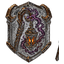
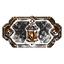
Replace rejected Sapper and Hexer tell prototype

diff --git a/apps/web/src/Battlefield.tsx b/apps/web/src/Battlefield.tsx
@@ -904,6 +904,12 @@ export function authoredEnemyIntentAssets(
   return undefined;
 }
 
+export function authoredEnemyIntentEffectLayout(
+  intent: EnemyIntentPresentation
+): "span" | "endpoint" {
+  return intent.phase === "committed" ? "endpoint" : "span";
+}
+
 export function statusSignalKind(
   statusId: string
 ):
@@ -1675,6 +1681,47 @@ function updateEntitySignal(
     1
   );
   signal.strokeRoundedRect(entity.x - width / 2 - 3, top - 3, width + 6, 10, 2);
+  if (presentation.elite || presentation.boss) {
+    const frameColor = presentation.boss ? 0xd2a866 : 0xb98b45;
+    signal.lineStyle(presentation.boss ? 2 : 1.5, frameColor, 0.95);
+    signal.strokeRoundedRect(
+      entity.x - width / 2 - 5,
+      top - 5,
+      width + 10,
+      14,
+      3
+    );
+    signal.fillStyle(0x3b2818, 1);
+    signal.fillTriangle(
+      entity.x - width / 2 - 8,
+      top - 3,
+      entity.x - width / 2 - 3,
+      top + 2,
+      entity.x - width / 2 - 8,
+      top + 7
+    );
+    signal.fillTriangle(
+      entity.x + width / 2 + 8,
+      top - 3,
+      entity.x + width / 2 + 3,
+      top + 2,
+      entity.x + width / 2 + 8,
+      top + 7
+    );
+    signal.lineStyle(1, 0xf0d394, 0.82);
+    signal.lineBetween(
+      entity.x - width / 2 - 7,
+      top + 2,
+      entity.x - width / 2 - 3,
+      top + 2
+    );
+    signal.lineBetween(
+      entity.x + width / 2 + 3,
+      top + 2,
+      entity.x + width / 2 + 7,
+      top + 2
+    );
+  }
   signal.fillStyle(
     presentation.healthRatio > 0.5
       ? 0x69b96b
@@ -2642,27 +2689,30 @@ class PersistentBattlefieldScene {
       const effect =
         this.behaviorEffects.get(sourceEntity.id) ??
         this.scene.add.image(midpointX, midpointY, assets.world);
-      effect.setTexture(assets.world).setOrigin(0.5).setAlpha(0.92);
-      if (intent.mechanic === "attack_disrupt") {
-        if (intent.phase === "committed")
-          effect
-            .setPosition(destination.x, destination.y + 4)
-            .setDisplaySize(142, 90)
-            .setRotation(0);
-        else
-          effect
-            .setPosition(midpointX, midpointY - 10)
-            .setDisplaySize(Math.max(112, Math.min(176, distance + 52)), 88)
-            .setRotation(angle);
-      } else if (intent.phase === "telling")
+      effect.setTexture(assets.world).setOrigin(0.5).setAlpha(0.84);
+      if (authoredEnemyIntentEffectLayout(intent) === "endpoint")
         effect
-          .setPosition(source.x + 26, source.y - 28)
-          .setDisplaySize(112, 92)
+          .setPosition(destination.x, destination.y + 4)
+          .setDisplaySize(
+            intent.mechanic === "attack_disrupt" ? 108 : 88,
+            intent.mechanic === "attack_disrupt" ? 66 : 58
+          )
           .setRotation(0);
+      else if (intent.mechanic === "attack_disrupt")
+        effect
+          .setPosition(midpointX, midpointY - 4)
+          .setDisplaySize(Math.max(92, Math.min(154, distance + 38)), 58)
+          .setRotation(angle);
       else
         effect
-          .setPosition(midpointX, midpointY - 22)
-          .setDisplaySize(Math.max(126, distance + 70), 66)
+          .setPosition(midpointX, midpointY - 8)
+          .setDisplaySize(
+            Math.max(
+              98,
+              Math.min(164, distance + (intent.phase === "telling" ? 42 : 50))
+            ),
+            intent.phase === "telling" ? 54 : 58
+          )
           .setRotation(angle);
       effect.setData("baseScaleX", effect.scaleX);
       effect.setData("baseScaleY", effect.scaleY);
@@ -2673,12 +2723,11 @@ class PersistentBattlefieldScene {
       }
       const crest =
         this.behaviorCrests.get(sourceEntity.id) ??
-        this.scene.add.image(source.x + 39, source.y - 58, assets.crest);
-      const crestSize = intent.phase === "committed" ? 58 : 52;
+        this.scene.add.image(source.x + 31, source.y - 58, assets.crest);
       crest
         .setTexture(assets.crest)
-        .setPosition(source.x + 39, source.y - 58)
-        .setDisplaySize(crestSize, crestSize)
+        .setPosition(source.x + 31, source.y - 58)
+        .setDisplaySize(intent.phase === "committed" ? 34 : 31, 18)
         .setAlpha(intent.phase === "cancelled" ? 0.58 : 1);
       crest.setData("baseScaleX", crest.scaleX);
       crest.setData("baseScaleY", crest.scaleY);

diff --git a/apps/web/src/App.browser.test.tsx b/apps/web/src/App.browser.test.tsx
@@ -17,6 +17,7 @@ import { page, userEvent } from "vitest/browser";
 import { App } from "./App.js";
 import {
   authoredEnemyIntentAssets,
+  authoredEnemyIntentEffectLayout,
   Battlefield,
   battlefieldEffectLifetime,
   buildBattlefieldPrimitives,
@@ -1730,6 +1731,18 @@ describe("player-facing combat HUD", () => {
         phase: "telling"
       })
     ).toBeUndefined();
+    expect(
+      authoredEnemyIntentEffectLayout({
+        mechanic: "attack_slow",
+        phase: "telling"
+      })
+    ).toBe("span");
+    expect(
+      authoredEnemyIntentEffectLayout({
+        mechanic: "attack_slow",
+        phase: "committed"
+      })
+    ).toBe("endpoint");
     expect(
       enemyIntentDetail({
         visualId: "enemy.goblin_hexer",

diff --git a/assets/game-art/combat-animation/build_assets.py b/assets/game-art/combat-animation/build_assets.py
@@ -42,7 +42,7 @@ SOURCE_DIGESTS = {
[5 lines of base64/hex data omitted]
 }
 
 WARDEN_CROPS = {

diff --git a/assets/game-art/combat-animation/generation-log.md b/assets/game-art/combat-animation/generation-log.md
@@ -152,22 +152,18 @@ The source contains exactly fifteen separated figures in a regular 5×3 layout. 
 - Requested and saved dimensions: `1536x1024`
 - Quality: `medium`
 - Modality: image-to-image consistency reference
-- Input image: `assets/game-art/combat-animation/sources/shuttergate-expanded-hostile-role-atlas-master.png`
[1 lines of base64/hex data omitted]
+- Input image: preceding project-owned `shuttergate-sapper-hexer-intent-atlas-master.png` (direction-rejected version, used only as the atlas-layout reference)
[1 lines of base64/hex data omitted]
 - License: project MIT license (`LICENSE`)
 
 ### Exact prompt
 
-Create an ORIGINAL production sprite-source atlas for the Dwarven Depths game, matching the referenced dark painterly pixel-art / hand-painted fantasy game asset style, warm amber firelight, blackened iron, soot, worn leather, and occult bronze. This is NOT a UI mockup and must contain NO characters, NO words, NO letters, NO numbers, NO captions, NO circles-with-slashes, NO crosshair symbols, NO generic chevrons, and NO thin geometric line icons.
+Edit this original 4-column by 2-row game-asset atlas, preserving the exact 1536×1024 atlas layout, dark near-black keyable background, painterly hand-authored isometric fantasy style, and eight clearly separated cells with generous empty margins. Do not add text, captions, UI mockups, characters, or scenery.
 
-Canvas: 1536x1024 landscape, uniform near-black navy matte background (#03111f), exactly 4 equal columns x 2 equal rows with generous separation and every object centered fully inside its cell. Do not draw cell dividers.
+The cells must remain in this exact order. TOP ROW: (1) compact Sapper bomb-and-lit-fuse pictorial CREST END-CAP, (2) Sapper TELL: a small bomb at the source, a thin restrained directional trail of amber fuse sparks and translucent charcoal smoke, then a clearly etched low-contrast blast footprint on stone at the destination, (3) Sapper COMMIT: the same etched footprint receiving a compact grounded amber impact and a few embers, (4) Sapper cancellation fracture/dissolve. BOTTOM ROW: (1) compact Hexer rune-lantern pictorial CREST END-CAP, (2) Hexer TELL: a small source rune/lantern with a narrow directional violet-grey channel and clear negative space, ending at a small target rune endpoint, (3) Hexer COMMIT: the same narrow channel resolving at a compact endpoint with a restrained warm-violet pulse, (4) Hexer cancellation fracture/dissolve.
 
-TOP ROW — Goblin Sapper authored visual language: (1) pictorial intent crest: a weighty engraved black-iron shield-shaped badge with thick riveted bronze endcaps, showing a clearly recognizable round black-powder bomb with a thick burning rope fuse and orange sparks; strong silhouette readable when reduced to about 44x44. (2) fuse/channel tell: a large isolated coiled rope fuse burning progressively toward a squat powder charge, chunky painterly ember beads and smoke wisps, diagonal sense of travel, no thin lines. (3) blast-area/impact: a broad ground-plane burst asset viewed in game-like isometric perspective, cracked stone wedge and smoky orange blast petals radiating from a dark powder charge; clear area/consequence, painterly texture, transparent-ready isolated footprint. (4) cancellation: the same fuse and charge visibly fractured into several authored irregular chunks, embers dying into ash and smoke, dissolving from right to left; it must read as broken/dissolved material, not a prohibition symbol.
-
-BOTTOM ROW — Goblin Hexer authored visual language: (1) pictorial intent crest: a weighty engraved black-iron shield-shaped badge with thick hooked bronze endcaps, showing a recognizable crooked ritual staff and hanging amber rune-lantern with smoky violet magic; strong silhouette readable at 44x44, no letter-like rune. (2) rune-channel tell: an isolated crooked staff/lantern conjuring a textured cluster of irregular occult stone sigils and smoky violet-amber wisps, visibly gathering power; pictorial, no clean geometric ring. (3) target-tether/resolve: an isolated broad braided ribbon of smoky violet magic with chunky amber rune-knots at both ends, curving horizontally from caster side to recipient side, substantial width and texture, clear directional recipient relationship, no one-pixel line. (4) cancellation: the rune cluster and smoky ribbon visibly shattering into irregular stone fragments and dissolving violet ash, authored fracture progression, no X and no prohibition symbol.
-
-Keep all assets separate and non-overlapping. High contrast silhouettes at gameplay reduction. Painterly surface texture, substantial chunky forms, restrained warm glow. No environment, no HUD, no frame around the entire sheet, no baked characters.
+Critical correction: remove the large detached hanging shield plaques. The two crest cells should be tiny horizontal engraved brass/blackened-steel health-frame endcaps, visually weighted but compact, with the pictogram cut into metal—not floating badges. Effects must stay below character silhouette height and must not become serpents, ribbons, circles, crosshairs, letters, or debug glyphs. Use Shuttergate materials: smoked iron, old brass, ember orange, dusty charcoal, muted plum-violet, rough etched stone texture. Keep actors visually primary: narrow effects, low saturation, no neon/cyan, no oversized glow, no broad opaque smoke, no overlapping ground rings. Each direction/recipient/consequence should read pictorially without captions at gameplay scale.
 
 ### Bounded QA and export semantics
 
-The source contains exactly eight isolated assets in a regular 4×2 atlas. The deterministic exporter binds the keyed-alpha source digest, fixed crop ordering, straight-alpha export dimensions, file digests, and web asset manifest. Crests, fuse/blast/channel/tether effects, and fracture/dissolve cancellations remain separate alpha layers; no environment pixels or character figures are present. Runtime compositing is limited to the rejected-direction replacement prototype for Sapper and Hexer.
+The source contains exactly eight isolated assets in a regular 4×2 atlas. The Sapper sequence carries bomb/fuse source, restrained directional embers, etched footprint, and compact impact. The Hexer sequence carries lantern/rune source, narrow channel, target endpoint, and restrained resolve. The prior hanging plaques, smoke serpent, and broad saturated ribbon are absent. The deterministic exporter binds the keyed-alpha source digest, fixed crop ordering, straight-alpha export dimensions, file digests, and web asset manifest; no environment pixels or character figures are present.
